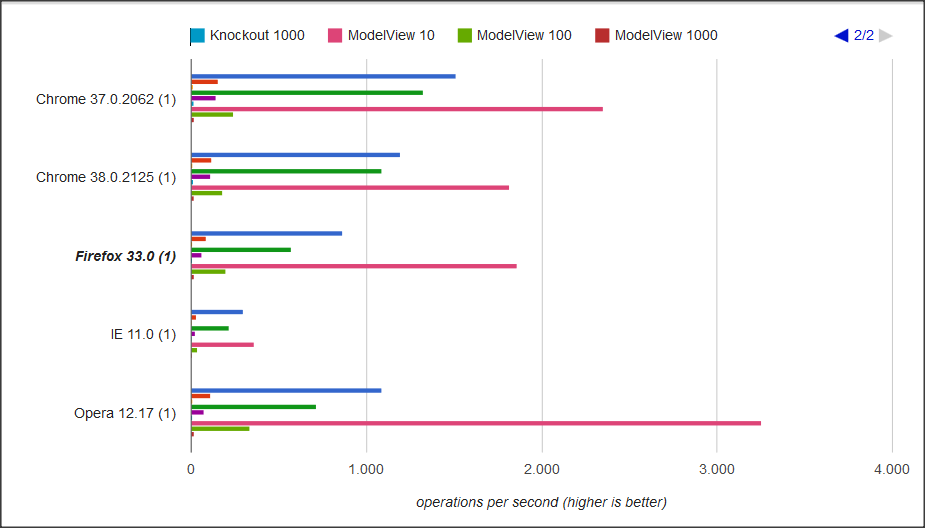
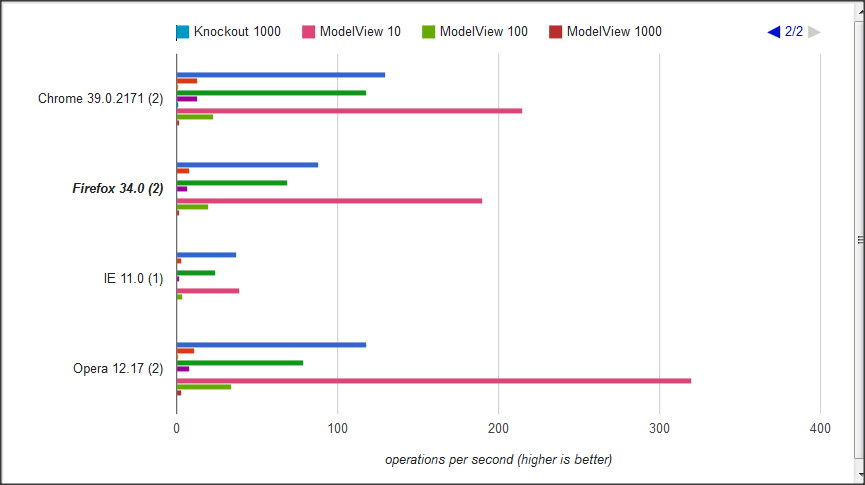
v. 0.51 + new jsperf tests

diff --git a/README.md b/README.md
@@ -291,27 +291,21 @@ jQuery DOM/Event dependency has been removed, ModelView can be used a standalone
 
 ####Performance
 
-Some tests on jsperf with ModelView [0.24](http://jsperf.com/js-mvc-frameworks/11) and [0.25](http://jsperf.com/js-mvc-frameworks/12), [0.26.1](http://jsperf.com/js-mvc-frameworks/16) (after some optimisations for single keys and typo fixes), latest backbonejs, knockoutjs and emberJS (on models get/set).
+Some tests on jsperf with ModelView, latest backbonejs, knockoutjs and emberJS (on models get/set).
 
-Some notes. The frameworks tested solve different problems so the comparison is only illustrative. The tests use two **get** operations and one **set** operation on a **single key**. ModelView get/set operations are complex operations supporting nested keys (which Ember, Backbone and Knockout do not support by default), custom getters/setters, type-casting and validation. Moreover, modelview set operation, is in general faster than other approaches, while get operation was slowest. To fix this, some minor optimisations were made for get (and set) when just single key is used and the final performance was greatly increased (mostly for get operation which was slower, while get is trivial in other approaches). 
+Some notes. The frameworks tested solve different problems so the comparison is only illustrative. The tests use two **get** operations and one **set** operation on a **single key**. ModelView get/set operations are complex operations supporting nested keys (which Ember, Backbone and Knockout do not support by default), custom getters/setters, type-casting and validation. Moreover, modelview set operation, is in general faster than other approaches, while get operation was slowest. To fix this, some minor optimisations were made (see changelog) for get (and set) when just single key is used and the final performance was greatly increased (mostly for get operation which was slower, while get is trivial in other approaches). 
 
+Previous tests are here [jsperf/0.24](http://jsperf.com/js-mvc-frameworks/11), [jsperf/0.25](http://jsperf.com/js-mvc-frameworks/12), [jsperf/0.26](http://jsperf.com/js-mvc-frameworks/13), [jsperf/0.26 rev2](http://jsperf.com/js-mvc-frameworks/14),[jsperf/0.26.1](http://jsperf.com/js-mvc-frameworks/16), [jsperf/0.43](http://jsperf.com/js-mvc-frameworks/17), [jsperf/0.51](http://jsperf.com/js-mvc-frameworks/18)
 
-ModelView 0.26.1 (0.25, 0.26) is 1st place on Firefox, Opera and 2nd place on Chrome, IE, having consistent ops/sec measure on all browsers (even when using type-caster).
+ModelView 0.51 is (consistently) 2nd place (near 1st place) on all browsers (even when using type-caster).
 
-
-Results before and after below:
-
-
-**with ModelView 0.24**
-
-[![jsperf-model-getset](/screenshots/jsperf-model-getset.png)](http://jsperf.com/js-mvc-frameworks/11)
+[![jsperf-model-getset](/screenshots/jsperf-model-getset.png)](http://jsperf.com/js-mvc-frameworks/18)
 
 
-**with ModelView 0.26.1**
+Some tests on jsperf with ModelView, latest Angular and Knockout on live DOM update and (multiple) watchers/subscribers.
 
-[![jsperf-model-getset](/screenshots/jsperf-model-getset-3.png)](http://jsperf.com/js-mvc-frameworks/16)
+Previous tests are here [jsperf/0.42.2](http://jsperf.com/angularjs-vs-knockoutjs/58), [jsperf/0.42.2 variation](http://jsperf.com/angularjs-vs-knockoutjs/59), [jsperf/0.43](http://jsperf.com/angularjs-vs-knockoutjs/62), [jsperf/0.51](http://jsperf.com/angularjs-vs-knockoutjs/68)
 
+ModelView 0.51 is (consistently) 1st place on almost all browsers.
 
-**live DOM and model (multiple) watchers/subscribers** (AngularJS, KnockoutJS, ModelViewJS 0.43)
-
-[![jsperf-angular-knockout-modelview](/screenshots/jsperf-angular-knockout-modelview043.png)](http://jsperf.com/angularjs-vs-knockoutjs/62)
+[![jsperf-angular-knockout-modelview](/screenshots/jsperf-angular-knockout-modelview.png)](http://jsperf.com/angularjs-vs-knockoutjs/68)
